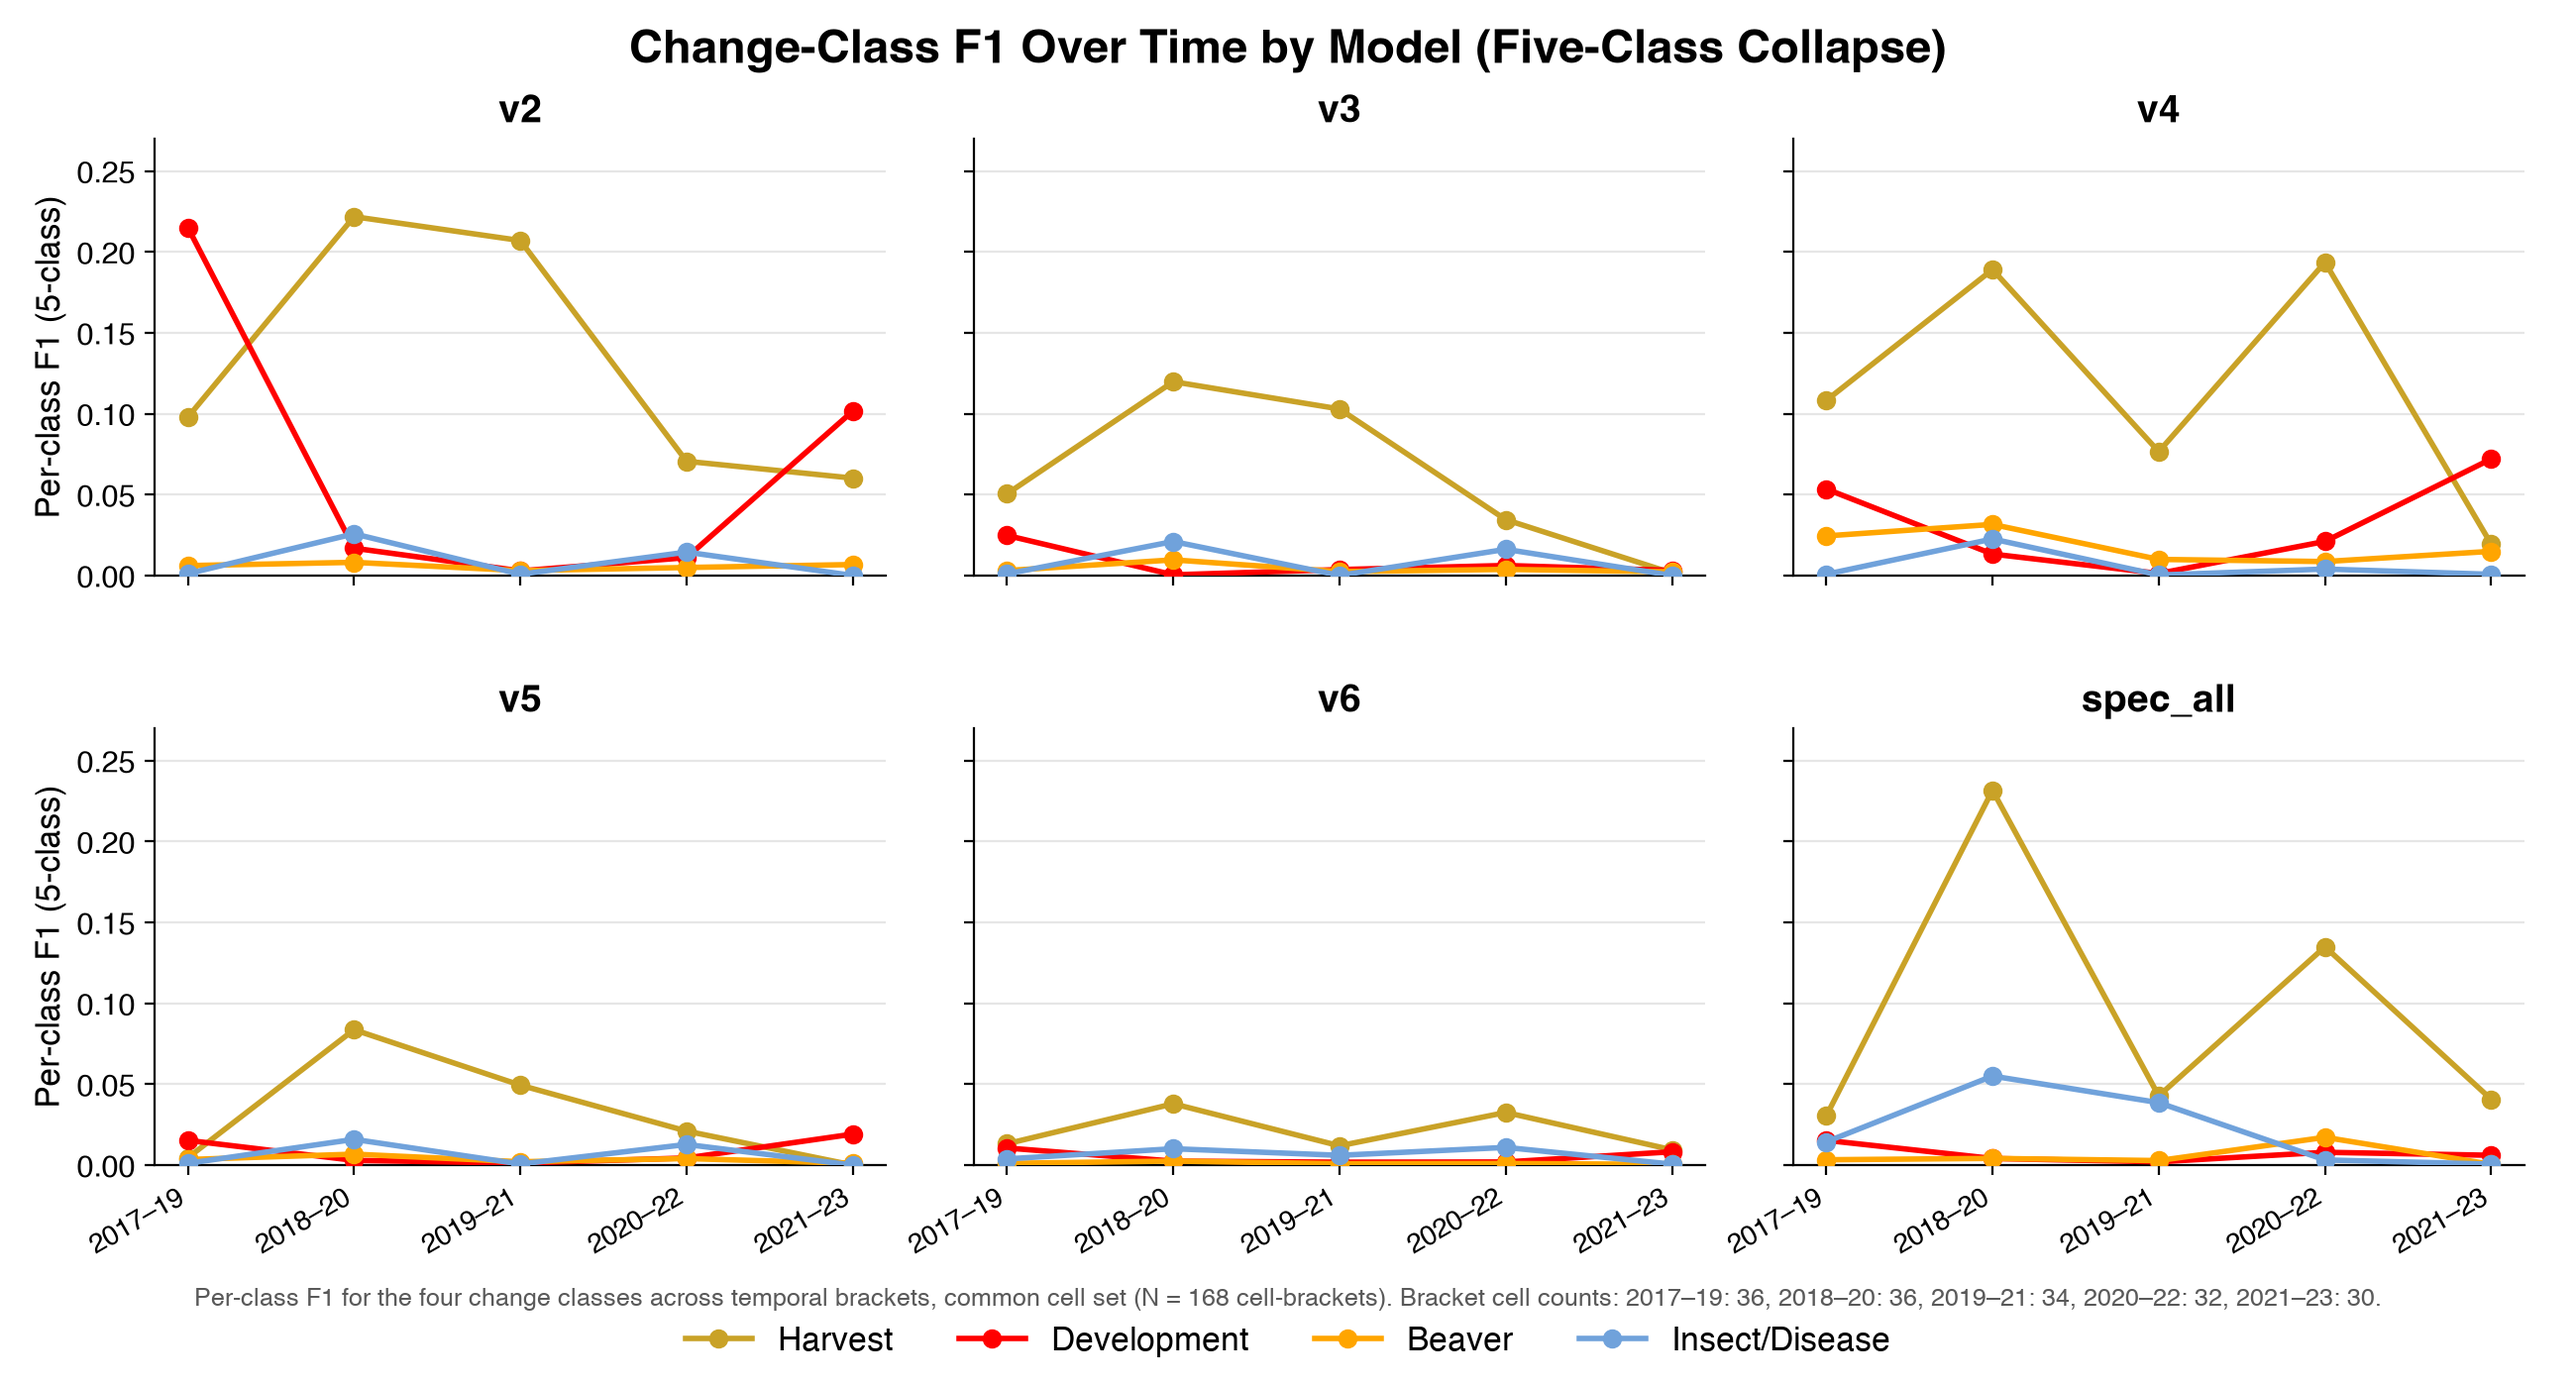
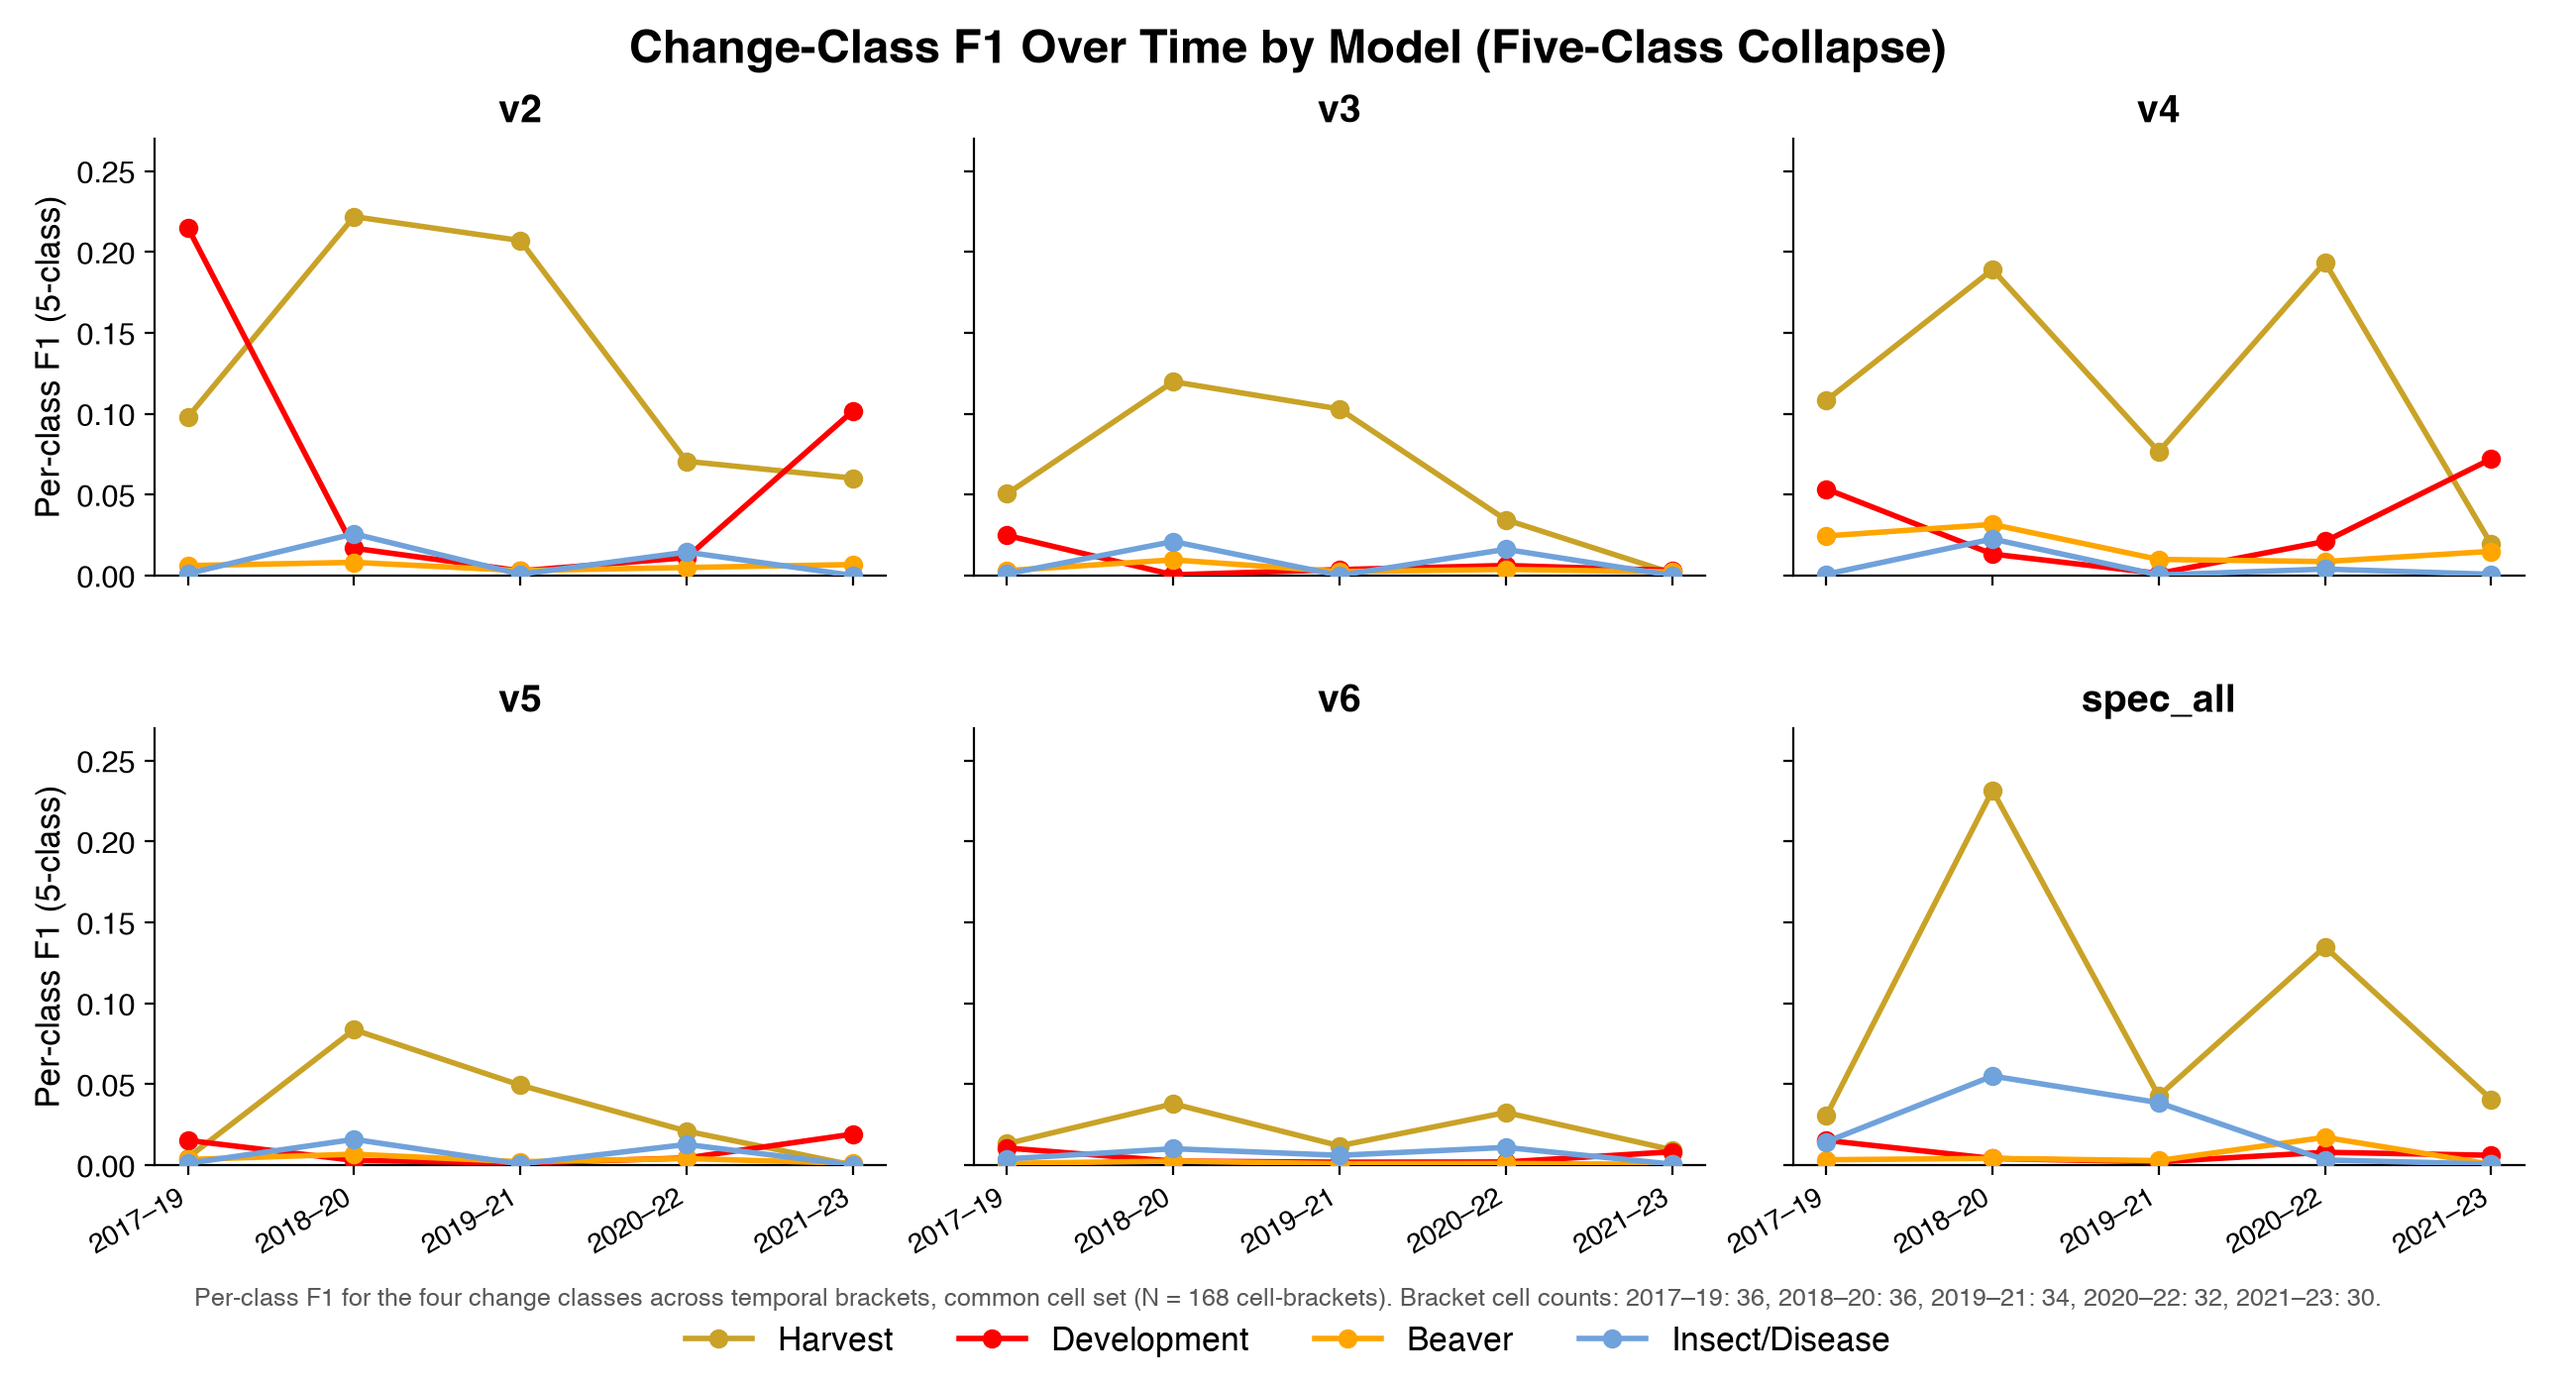
changeclass F1 over time: remove background gridlines

diff --git a/scripts/changeclass_f1_over_time_5class.py b/scripts/changeclass_f1_over_time_5class.py
@@ -77,8 +77,7 @@ def main():
         ax.set_xticks(xs)
         ax.set_xticklabels([_blab(b) for b in BRACKETS], fontsize=10, rotation=30, ha="right")
         ax.tick_params(axis="y", labelsize=11)
-        ax.grid(axis="y", color="0.9", lw=0.8)
-        ax.set_axisbelow(True)
+        ax.grid(False)
         for sp in ("top", "right"):
             ax.spines[sp].set_visible(False)
     for ax in axes[:, 0]:
